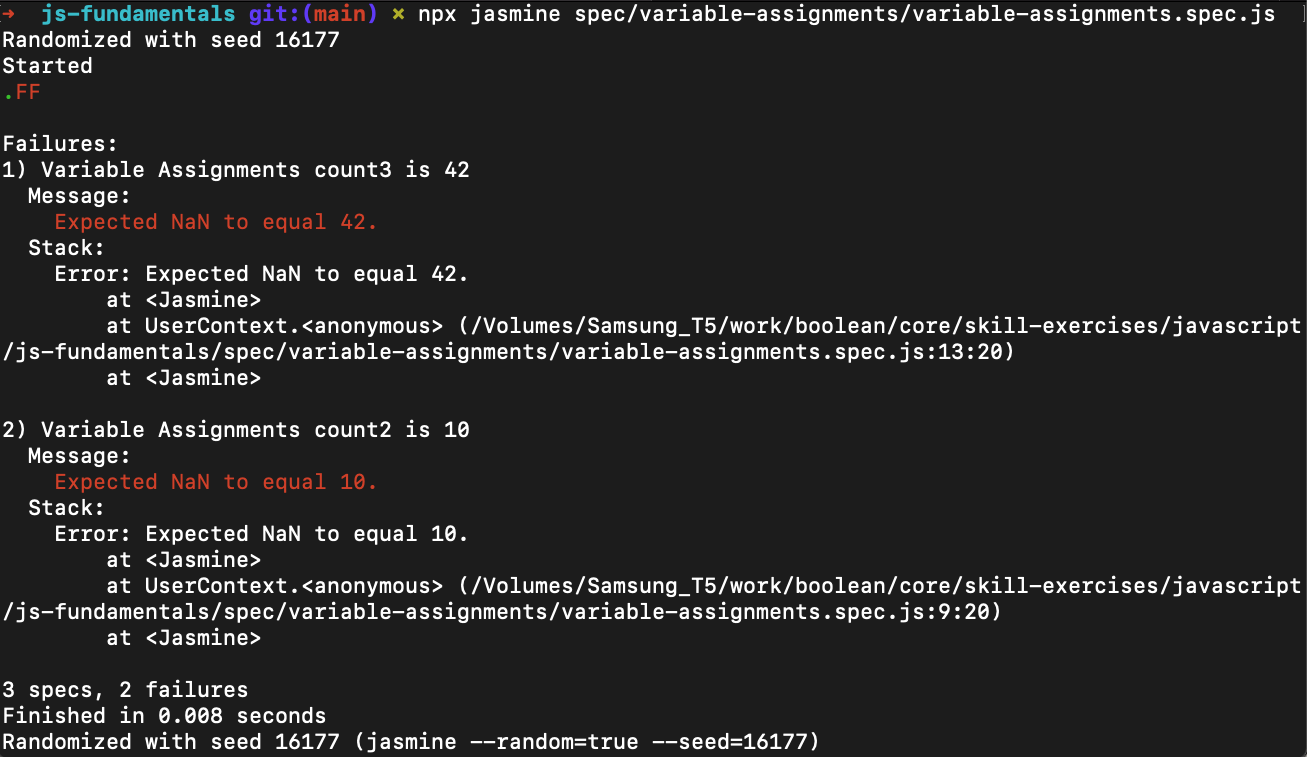
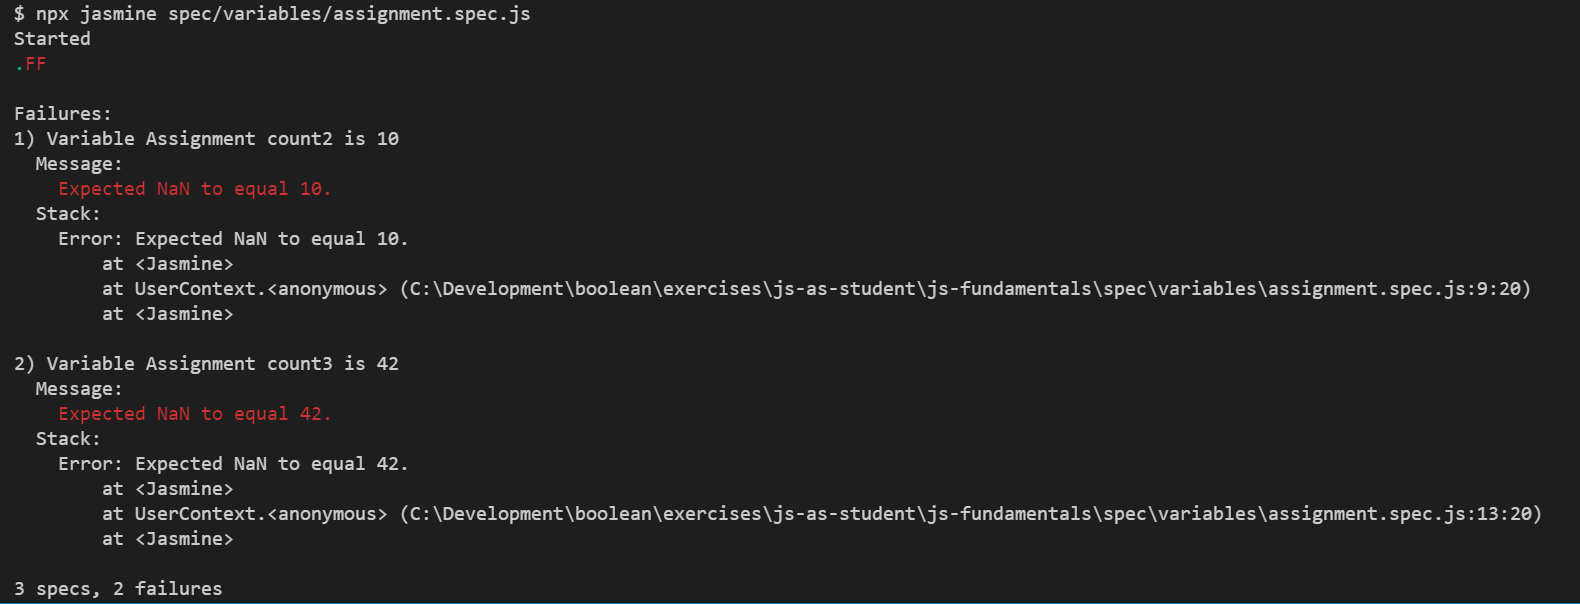
Update starting instructions and screenshot

Changed region(s): [[0.0, 0.1788, 1.0, 1.0], [0.0, 0.0, 0.9793, 0.149], [0.9793, 0.9834, 1.0, 1.0]]

diff --git a/README.md b/README.md
@@ -50,20 +50,21 @@ $ npm install
 
 Once you've gone through set up, start with the first exercise in the list above. Your job is to write code for each exercise to make the tests pass, one test at a time.
 
-To start, always first run the tests for the set of exercises you are on. For example:
+To start, always first run the tests for the set of exercises you are on. The simplest way to do this is to open up the project in VS Code, start a new terminal (`Terminal` -> `New` from the menu)  then run the `npx jasmine` command. For example, for the first tests, `variables/assignments.spec.js` you would run:
+
 ```sh
 $ npx jasmine spec/variables/assignments.spec.js
 ```
 ![](./_images/test-output1.png)
 
-**Inspect** this output. Your output might be slightly different. Read through this, and focus on one test at a time.
+**Inspect** this output. Your output might be slightly different. Read through this, and focus on one test at a time. Get the tests to pass by editing the corresponding source file for the test, located in the `src` directory. In the above example, you would edit `src/variables/assignments.js` and follow the instructions to make the test pass.
 
-**NB:** Do not change any code in the `spec` directory. When you encounter something you don't know, research it, using the [MDN Web Docs](https://developer.mozilla.org/en-US/docs/Web/JavaScript/Reference)
+**NB:** Do not change any code in the `spec` directory. When you encounter something you don't know, research it, using the [MDN Web Docs](https://developer.mozilla.org/en-US/docs/Web/JavaScript/Reference). The README file for each topic also contains an overview of the concepts required to make the tests pass. 
 
 Once you've passed the tests for each exercise, push your work to your repository
 ```sh
-$ git add src/variable-assignments/variable-assignments.js
-$ git commit -m "variable-assignments completed"
+$ git add src/variables/assignments.js
+$ git commit -m "variable assignments completed"
 ```
 
 > **Important** - running git commit runs a test to check the formatting of your code. **If there are errors the command will abort.**
